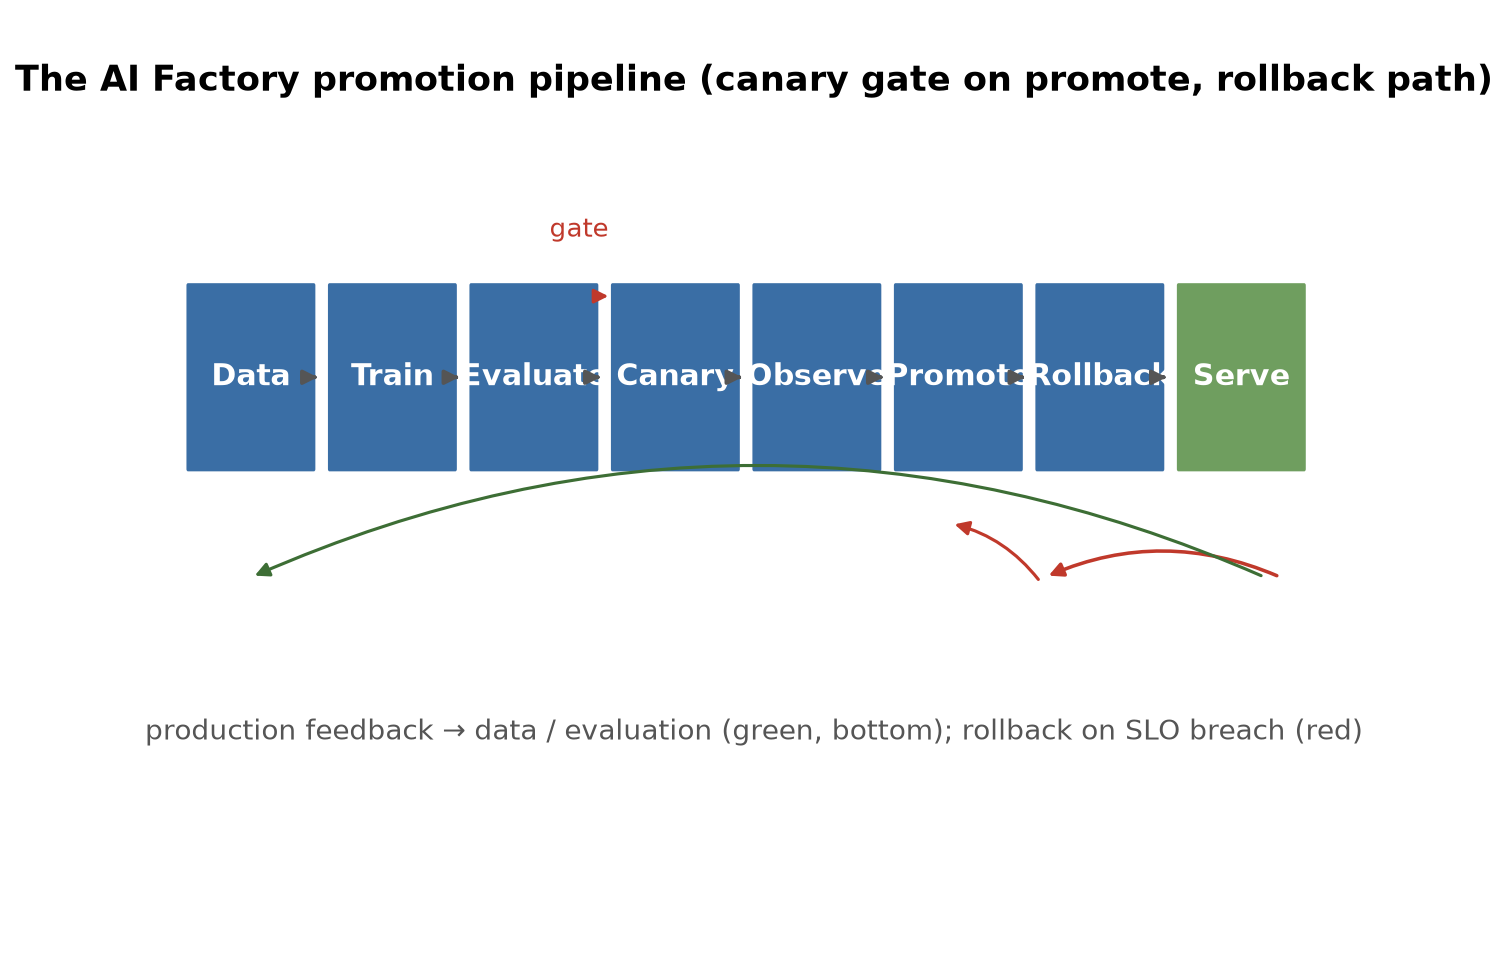
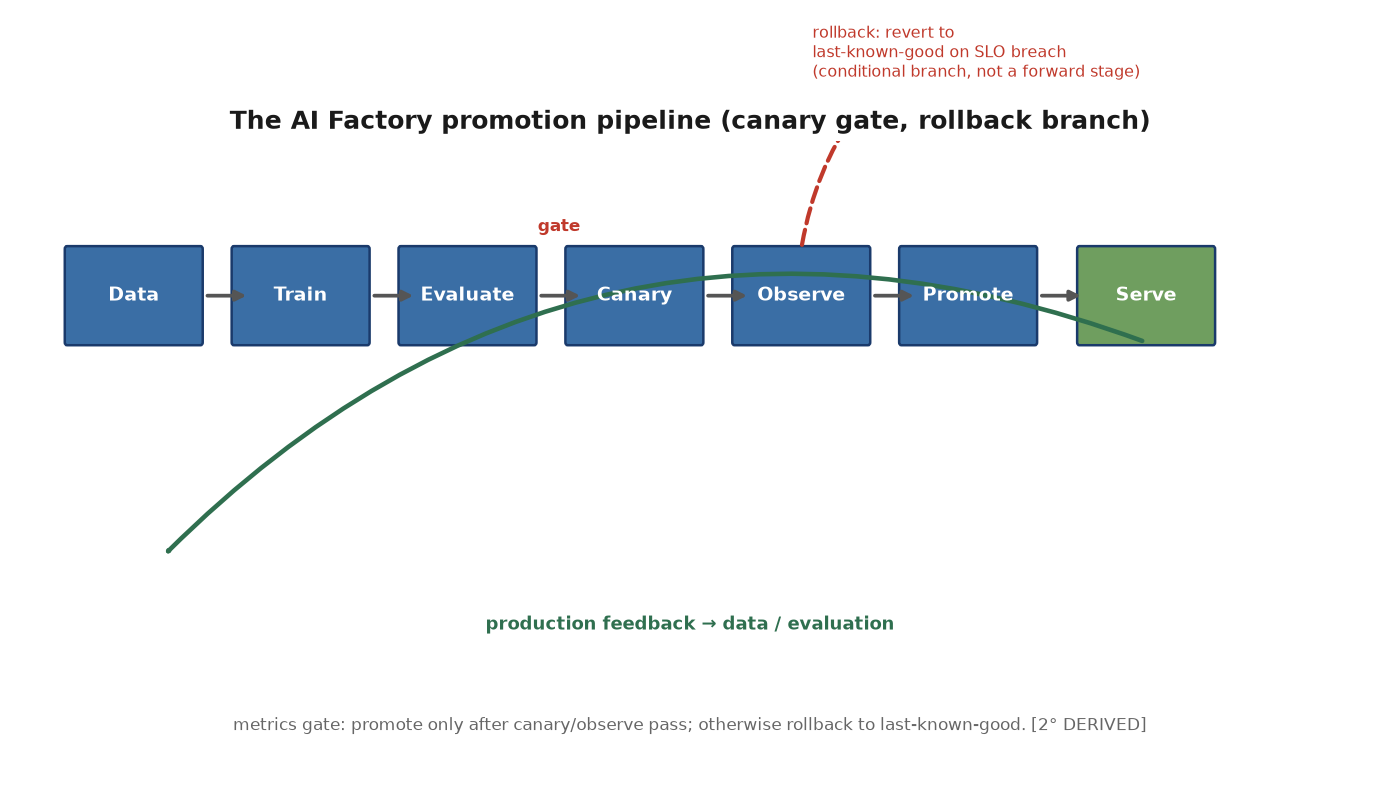
Fix Fig 21.1: rollback now a conditional branch (not a forward stage), unclipped feedback loop

diff --git a/render/fig_ch21_pipeline.py b/render/fig_ch21_pipeline.py
@@ -1,0 +1,53 @@
+import matplotlib
+matplotlib.use('Agg')
+import matplotlib.pyplot as plt
+from matplotlib.patches import FancyBboxPatch, FancyArrowPatch
+
+# ---- fig-21-2101: AI Factory promotion pipeline with canary gate + rollback ----
+# Correct semantics: the forward chain is Data->Train->Evaluate->Canary->Observe->
+# Promote->Serve (NO 'Rollback' stage in the forward path).  Rollback is a
+# CONDITIONAL branch: on an observe/canary SLO breach, revert to the last-known-good
+# model and re-validate; the green arrow is the normal production feedback loop.
+fig, ax = plt.subplots(figsize=(9.2, 5.4))
+ax.set_xlim(0, 24); ax.set_ylim(0, 9); ax.axis('off')
+
+ax.set_title('The AI Factory promotion pipeline (canary gate, rollback branch)',
+             fontsize=12, fontweight='bold', ha='center', color='#1a1a1a')
+
+stages = ['Data', 'Train', 'Evaluate', 'Canary', 'Observe', 'Promote', 'Serve']
+xs = [0.8, 3.8, 6.8, 9.8, 12.8, 15.8, 19.0]
+w = 2.4; h = 1.3; y = 6.2
+for name, x in zip(stages, xs):
+    fc = '#6f9e5f' if name == 'Serve' else '#3a6ea5'
+    ax.add_patch(FancyBboxPatch((x, y), w, h, boxstyle='round,pad=0.04', fc=fc, ec='#1a3a6b', lw=1.2))
+    ax.text(x+w/2, y+h/2, name, ha='center', va='center', fontsize=9, color='white', fontweight='bold')
+
+# forward arrows
+for x in xs[:-1]:
+    ax.annotate('', xy=(x+w+0.9, y+h/2), xytext=(x+w+0.05, y+h/2),
+                arrowprops=dict(arrowstyle='-|>', lw=1.8, color='#555'))
+# canary gate label
+ax.text(xs[2]+w+0.45, y+h+0.25, 'gate', fontsize=8, ha='center', color='#c0392b', fontweight='bold')
+
+# Rollback CONDITIONAL branch: from Observe (SLO breach) back to a last-known-good.
+# Draw a red dashed path from Observe up-and-back over the pipeline to 'Promote'
+# (the last-known-good), labelled 'rollback on SLO breach'.
+ax.add_patch(FancyArrowPatch((xs[4]+w/2, y+h), (xs[5]+w/2, y+h+3.2),
+             connectionstyle='arc3,rad=-0.25', arrowstyle='-|>', lw=2.0,
+             color='#c0392b', ls='--'))
+ax.text(xs[4]+w/2+0.2, y+h+2.4, 'rollback: revert to\nlast-known-good on SLO breach\n(conditional branch, not a forward stage)',
+        fontsize=7.8, ha='left', color='#c0392b')
+
+# Green production feedback loop: Serve -> Data/evaluation.
+ax.add_patch(FancyArrowPatch((xs[6]+w/2, y), (xs[0]+w/2+0.5, y-3.0),
+             connectionstyle='arc3,rad=0.32', arrowstyle='-|>', lw=2.2, color='#2f6f4f'))
+ax.text(12.0, 2.2, 'production feedback → data / evaluation',
+        fontsize=8.5, ha='center', color='#2f6f4f', fontweight='bold')
+
+ax.text(12.0, 0.8, 'metrics gate: promote only after canary/observe pass; otherwise rollback to last-known-good. [2° DERIVED]',
+        fontsize=8, ha='center', color='#666')
+
+plt.tight_layout()
+plt.savefig('design/manuscript/chapter-21/figures/fig-21-2101.png', dpi=150)
+plt.close()
+print('wrote fig-21-2101')
